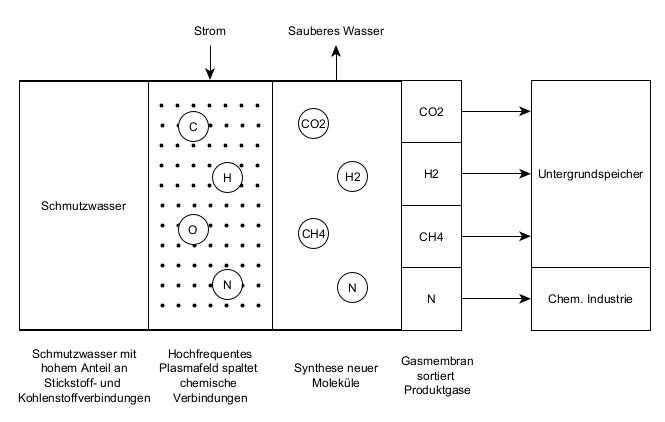
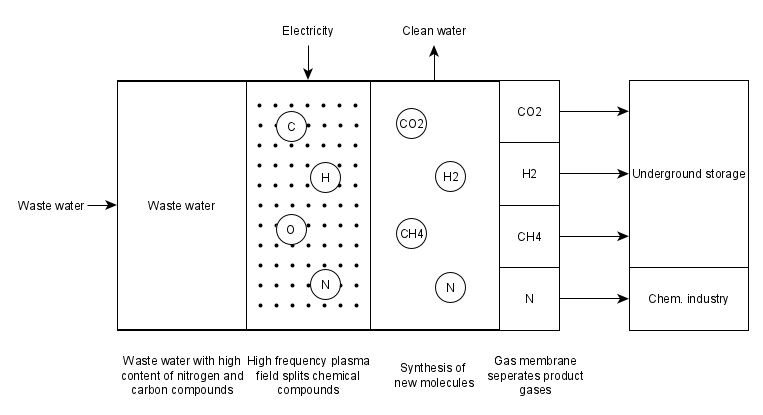
Translate process descriptions and figures to english.

diff --git a/docs/model_plasmalyser.rst b/docs/model_plasmalyser.rst
@@ -26,20 +26,16 @@ Concept
 	
 	Fig. 1: Process of waste water plasmalysis.
 
-Allgemein ist die Plasmalyse ein Prozess bei dem unter Nutzung eines Plasmafeldes chemische Verbindungen aufgespalten werden
-(Plasma-chemische Dissoziation). Anschließend kommt es zur Bildung von neuen Molekülen durch die Synthese von zwei oder mehr 
-Elementen.
+In general, plasma analysis is a process in which chemical compounds are broken down using a plasma field
+(plasma chemical dissociation). This is followed by the formation of new molecules through the synthesis of two or more elements.
 
-Die Schmutzwasser-Plasmalyse nutzt Abwasser aus Klärwerken, Biogas- oder Industrieanlagen. Dieses Schmutzwasser (Brüdenwasser) hat
-einen hohen Anteil an Stickstoff- und Kohlenstoffverbindungen, die jeweils Wasserstoff enthalten (z.B Ammoniak NH\ :sub:`4`\ ) und 
-so die Energieausbeute erhöhen.
-Ein hochfrequentes Plasmafeld mit mehreren Tausend Kilovolt spaltet die Moleküle des Abwassers in einzelne C-, N-, H- und O-Atome 
-auf. Die Atome liegen als ionisiertes Gas vor, innerhalb dessen sie sich neu verbinden. Es entstehen Wasserstoff, Kohlenstoffdioxid, 
-Methan und Stickstoff. Die Gase können mit Hilfe einer Gasmembran getrennt und in Tanks gespeichert werden. Als Nebenprodukt bleibt 
-gereinigtes Wasser zurück. Der Wasserstoff und das Kohlenstoffdioxid können in der biologischen Methanisierung verwertet werden. 
-Das bereits gebildete Methan kann zusätzlich in den Speicher gebracht werden. Der reine Stickstoff lässt sich in der chemischen 
-Industrie weiterverarbeiten. 
-
+Waste water plasmalysis uses waste water from sewage treatment, biogas or industrial plants. This waste water has a high proportion
+of nitrogen and carbon compounds, each of which contains hydrogen (z.B ammonia NH\ :sub:`4`\ ) and thus increases the energy yield.
+A high-frequency plasma field with several thousand kilovolts splits the molecules of the waste water into individual C, N, H and O atoms.
+The atoms are now present as ionised gas within which they recombine to hydrogen, carbon dioxide, methane and nitrogen. The gases can be 
+separated with the help of a gas membrane and stored in tanks. As a by-product purified water remains. The hydrogen and carbon dioxide 
+can be utilised in biological methanisation. The methan that has already been formed can also stored. The pure nitrogen can be processed 
+in the chemical industry.
 
 Assumptions
 -----------

diff --git a/docs/model_ael_electrolyser.rst b/docs/model_ael_electrolyser.rst
@@ -1,8 +1,8 @@
 .. _model_ael_electrolyser:
 
-~~~~~~~~~~~~~~~~
-AEL Electrolyser
-~~~~~~~~~~~~~~~~
+~~~~~~~~~~~~~~~~~~~~~
+Alkaline Electrolyser
+~~~~~~~~~~~~~~~~~~~~~
 
 .. contents:: `Contents`
     :depth: 1
@@ -23,18 +23,27 @@ Concept
 
 .. figure:: _pics/AEL.png
 	:align: center
-	:width: 20%
+	:width: 50%
 
 	Fig. 1: Simple diagram of an alkaline electrolyser.
 
-Die alkalische Elektrolyse ist die ausgereifteste Technologie der drei Arten. Es wird ein flüssiger Elektrolyt (Kaliumhydroxidlösung) 
-sowie eine ionenleitende Membran verwendet. Durch die Zugabe von Kaliumhydroxid wird die Leitfähigkeit von Wasser erhöht. An der Kathode 
-wird Wasser in Wasserstoff und Hydroxid-Ionen aufgespalten. Der Wasserstoff steigt auf und kann abgeschieden werden. Die Ionen diffundieren 
-durch die Membran und reagieren an der Anode unter Abgabe von Elektronen zu Wasser und Sauerstoff. Bei hohen Lasten ist eine aktive Umwälzung 
-des Elektrolyten erforderlich, damit eine ausreichende Zirkulation des Elektrolyten gewährleistet wird. :cite:`Sterner2017`
+The alkaline elektrolysis is the most mature technology among electrolysers. A liquid electrolyt (potassium hydroxide solution) as well as a ion-conducting membrane.
+The addition of potassium hydroxide increases the conductivity of water. At the cathode, water is split into hydrogen and hydroxide ions. 
+The hydrogen rises and can be separated. The ions diffuse through the membrane and react at the anode, releasing electrons to form water 
+and oxygen. At high loads, active circulation of the electrolyte is necessary to ensure sufficient circulation of the electrolyte. :cite:`Sterner2017`
 
 Assumptions
 -----------
 
 Formulas
 --------
+For a simple calculation of the energy consumption and the amount of water needed as well as hydrogen and oxygen produced,
+the following approach is applied.
+
+.. math::
+	\begin{align}
+		\eta & = \frac{m_{H_2} \cdot HHV_{H_2}}{E}
+	\end{align}
+
+with :math:`E = P \cdot t`
+

diff --git a/docs/model_pem_electrolyser.rst b/docs/model_pem_electrolyser.rst
@@ -12,7 +12,7 @@ PEM Electrolyser
 Scope
 =====
 
-This model was developed to implement a simplified model of a PEM electrolszer for energy system optimization with oemof.solph. 
+This model was developed to implement a simplified model of a PEM electrolyser for energy system optimization with oemof.solph. 
 
 Concept
 =======
@@ -23,14 +23,14 @@ Concept
 
 .. figure:: _pics/PEMEL.png
 	:align: center
-	:width: 30%
+	:width: 50%
 
 	Fig. 1: Simple diagram of an proton exchange membrane electrolyser.
 
-Die PEM-Elektrolyse nutzt eine protonenleitende Membran, die beidseitig meist fest mit den Elektroden verbunden ist. 
-Bipolare Platten leiten das Wasser zur Anode und ermöglichen den Abtransport der Produktgase. An der Anode wird das 
-Wasser in Sauerstoff und Protonen aufgespalten. Die Protonen diffundieren durch die Membran zu Kathode und regieren 
-dort mit zwei Elektronen zu Wasserstoff. :cite:`Sterner2017`
+PEM electrolysis uses a proton-conducting membrane that is usually firmly connected to the electrodes on both sides. 
+Bipolar plates guide the water to the anode and enable the separation of the product gases. At the anode, the water is 
+split into oxygen and protons. The protons diffuse through the membrane to the cathode, where they react with two 
+electrons to form hydrogen. :cite:`Sterner2017`
 
 Assumptions
 -----------
@@ -42,8 +42,7 @@ the following approach is applied.
 
 .. math::
 	\begin{align}
-		E & = \frac{m_{H_2} \cdot HHV_{H_2}}{\eta} \\
-		m_{H_2} & = \frac{\eta \cdot E}{HHV_{H_2}}
+		\eta & = \frac{m_{H_2} \cdot HHV_{H_2}}{E}
 	\end{align}
 
 with :math:`E = P \cdot t`

diff --git a/docs/model_methanisation_storage.rst b/docs/model_methanisation_storage.rst
@@ -26,10 +26,10 @@ Concept
 	
 	Fig. 1: Model of the underground storage.
 	
-Der Untergrundspeicher (UGS) dient als Reaktor für die biologische Methanisierung sowie als Speicher des produzierten Methans.
-In einem ersten Schritt werden die Edukte Wasserstoff und Kohlenstoffdioxid in den UGS geleitet. Im Prozess der biologischen Methanisierung 
-verwerten Archaeen während ihrer anaeroben Metabolisierung die Edukte in die Produkte Methan und Wasser.
-Das Methan wird im UGS gespeichert und kann bei Bedarf entnommen werden.
+The underground storage (UGS) serves as a reactor for biological methanation and as a storage facility for the methane produced. 
+In a first step, the reactants hydrogen and carbon dioxide are fed into the UGS. In the process of biological methanisation, 
+archaea process the reactants into the products methane and water during their anaerobic metabolisation.
+The methane is stored in the UGS and can be extracted as needed.
 
 Assumptions
 -----------
